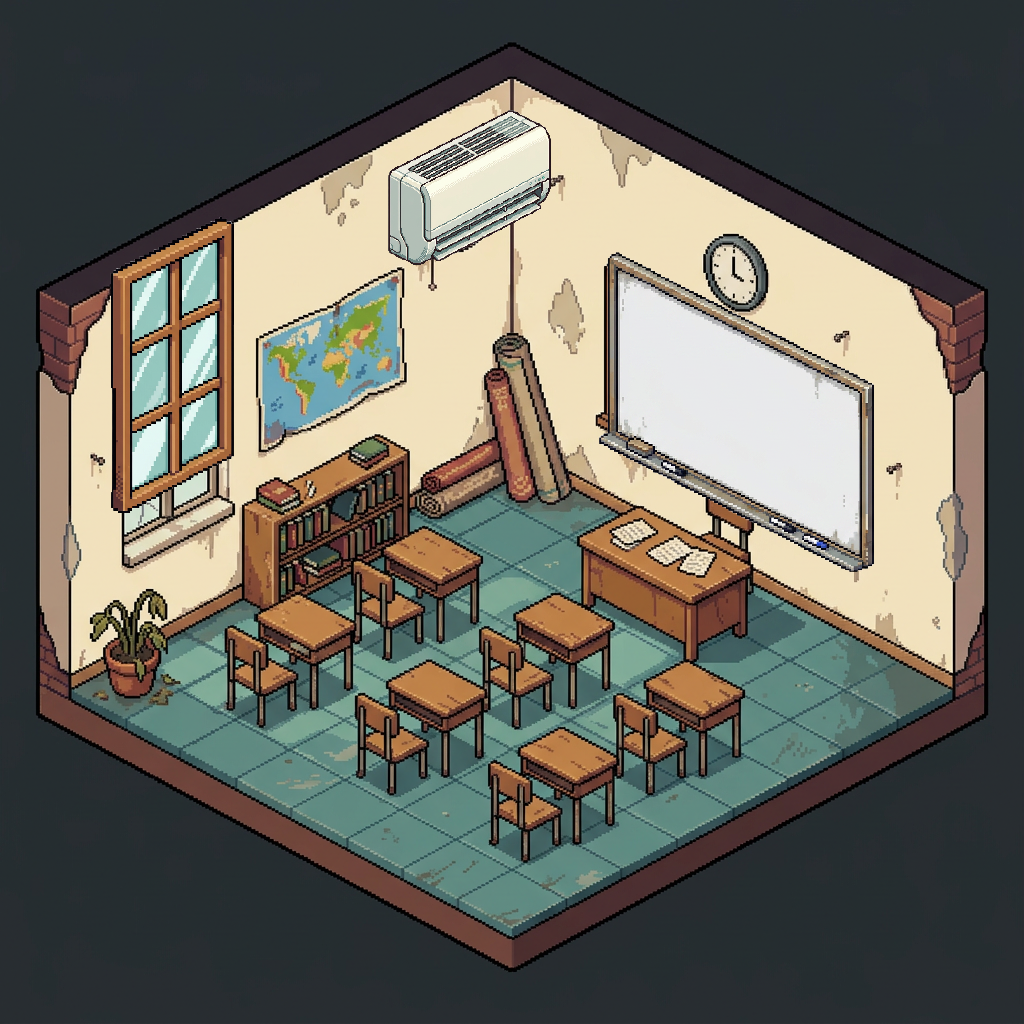
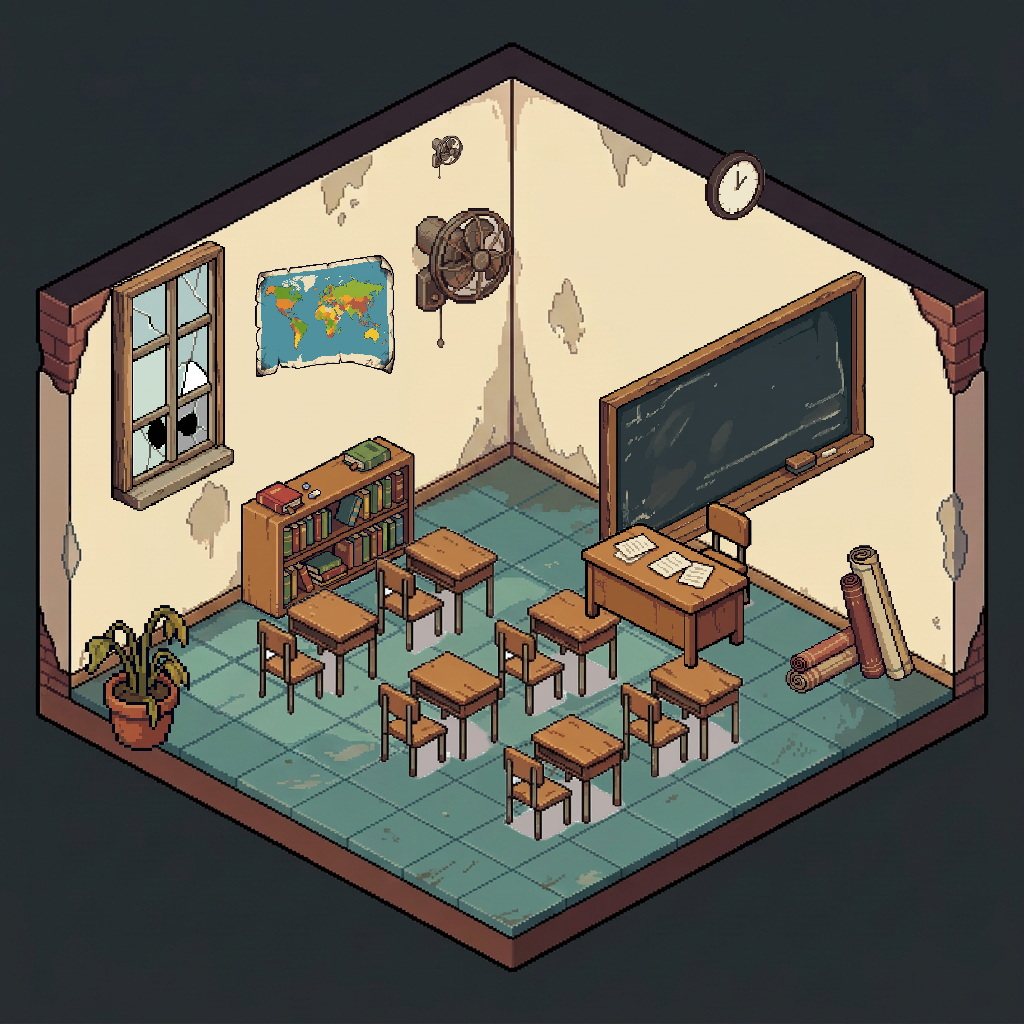
Decomposition complete: 10 extraction layers validated, slot table (composite.py), map reroll

Changed region(s): [[0.0625, 0.0938, 0.9062, 0.8438]]

diff --git a/tools/composite.py b/tools/composite.py
@@ -1,0 +1,82 @@
+#!/usr/bin/env python3
+"""Composite classroom layers over the shell (and run alignment tests).
+
+Slots are pixel boxes on the 1024x1024 canvas, tuned against base v3.
+Usage:
+  python3 composite.py all [bg]     composite every slot layer over bg (default shell.png)
+  python3 composite.py fit NAME X Y W H   test-fit one layer at a manual box
+Writes assets/_composite-test.png
+"""
+import sys
+import pathlib
+from PIL import Image
+
+ASSETS = pathlib.Path(__file__).resolve().parent.parent / "assets"
+
+# slot boxes: (x0, y0, x1, y1) on the 1024 canvas
+SLOTS = {
+    "old-window":   (110, 240, 235, 490),
+    "blackboard":   (598, 270, 875, 555),
+    "old-fan":      (415, 135, 515, 240),   # fit by fan head, top-aligned
+    "clock":        (705, 150, 765, 215),
+    "map":          (255, 255, 395, 430),
+    "bookshelf":    (240, 435, 415, 620),
+    "desks":        (255, 525, 745, 875),
+    "teacher-desk": (580, 500, 755, 660),
+    "rugs":         (785, 545, 915, 675),
+    "plant":        (85, 605, 190, 725),
+    # replacements and add-ons
+    "fix-window":   (110, 240, 235, 490),
+    "whiteboard":   (598, 270, 875, 555),
+    "ac":           (395, 110, 545, 265),
+}
+
+# layers drawn over the shell in this order (back to front)
+ORDER = [
+    "old-window", "blackboard", "old-fan", "clock", "map",
+    "bookshelf", "desks", "teacher-desk", "rugs", "plant",
+]
+
+
+def load_cut(name):
+    p = ASSETS / (name + "-cut.png")
+    s = Image.open(p).convert("RGBA")
+    bb = s.split()[3].getbbox()
+    return s.crop(bb)
+
+
+def fit_paste(base, sprite, box, top_align=False):
+    # extraction layers: width-fit at the slot origin (no cover overflow)
+    x0, y0, x1, y1 = box
+    scale = (x1 - x0) / sprite.width
+    nw, nh = int(sprite.width * scale), int(sprite.height * scale)
+    s = sprite.resize((nw, nh), Image.NEAREST)
+    base.alpha_composite(s, (x0, y0))
+    return (nw, nh, x0, y0)
+
+
+def main():
+    mode = sys.argv[1] if len(sys.argv) > 1 else "all"
+    if mode == "fit":
+        name = sys.argv[2]
+        x, y, w, h = (int(v) for v in sys.argv[3:7])
+        base = Image.open(ASSETS / "shell.png").convert("RGBA")
+        info = fit_paste(base, load_cut(name), (x, y, x + w, y + h))
+        print(name, "->", info)
+    else:
+        bg = sys.argv[2] if len(sys.argv) > 2 else "shell.png"
+        base = Image.open(ASSETS / bg).convert("RGBA")
+        for name in ORDER:
+            cut = ASSETS / (name + "-cut.png")
+            if not cut.exists():
+                print("skip (missing):", name)
+                continue
+            info = fit_paste(base, load_cut(name), SLOTS[name], top_align=(name == "old-fan"))
+            print(name, "->", info)
+    out = ASSETS / "_composite-test.png"
+    base.convert("RGB").save(out)
+    print("saved", out)
+
+
+if __name__ == "__main__":
+    main()

diff --git a/tools/gen_classroom.py b/tools/gen_classroom.py
@@ -104,8 +104,10 @@ PROMPTS = {
     "map": (
         "Using the attached classroom image ONLY as reference for exact position, size, "
         "isometric angle and pixel-art style. Draw ONLY the worn world map poster exactly as "
-        "it appears in the reference: slightly torn corners, same isometric tilt. Isolated on "
-        "a plain pure white background. No wall, no room, nothing else. " + STYLE
+        "it appears in the reference: LARGE square-ish poster, about as tall as it is wide "
+        "(or slightly taller), the same prominent size as the reference map, slightly torn "
+        "corners, same isometric tilt. Isolated on a plain pure white background. No wall, no "
+        "room, nothing else. " + STYLE
     ),
     "bookshelf": (
         "Using the attached classroom image ONLY as reference for exact position, size, "
